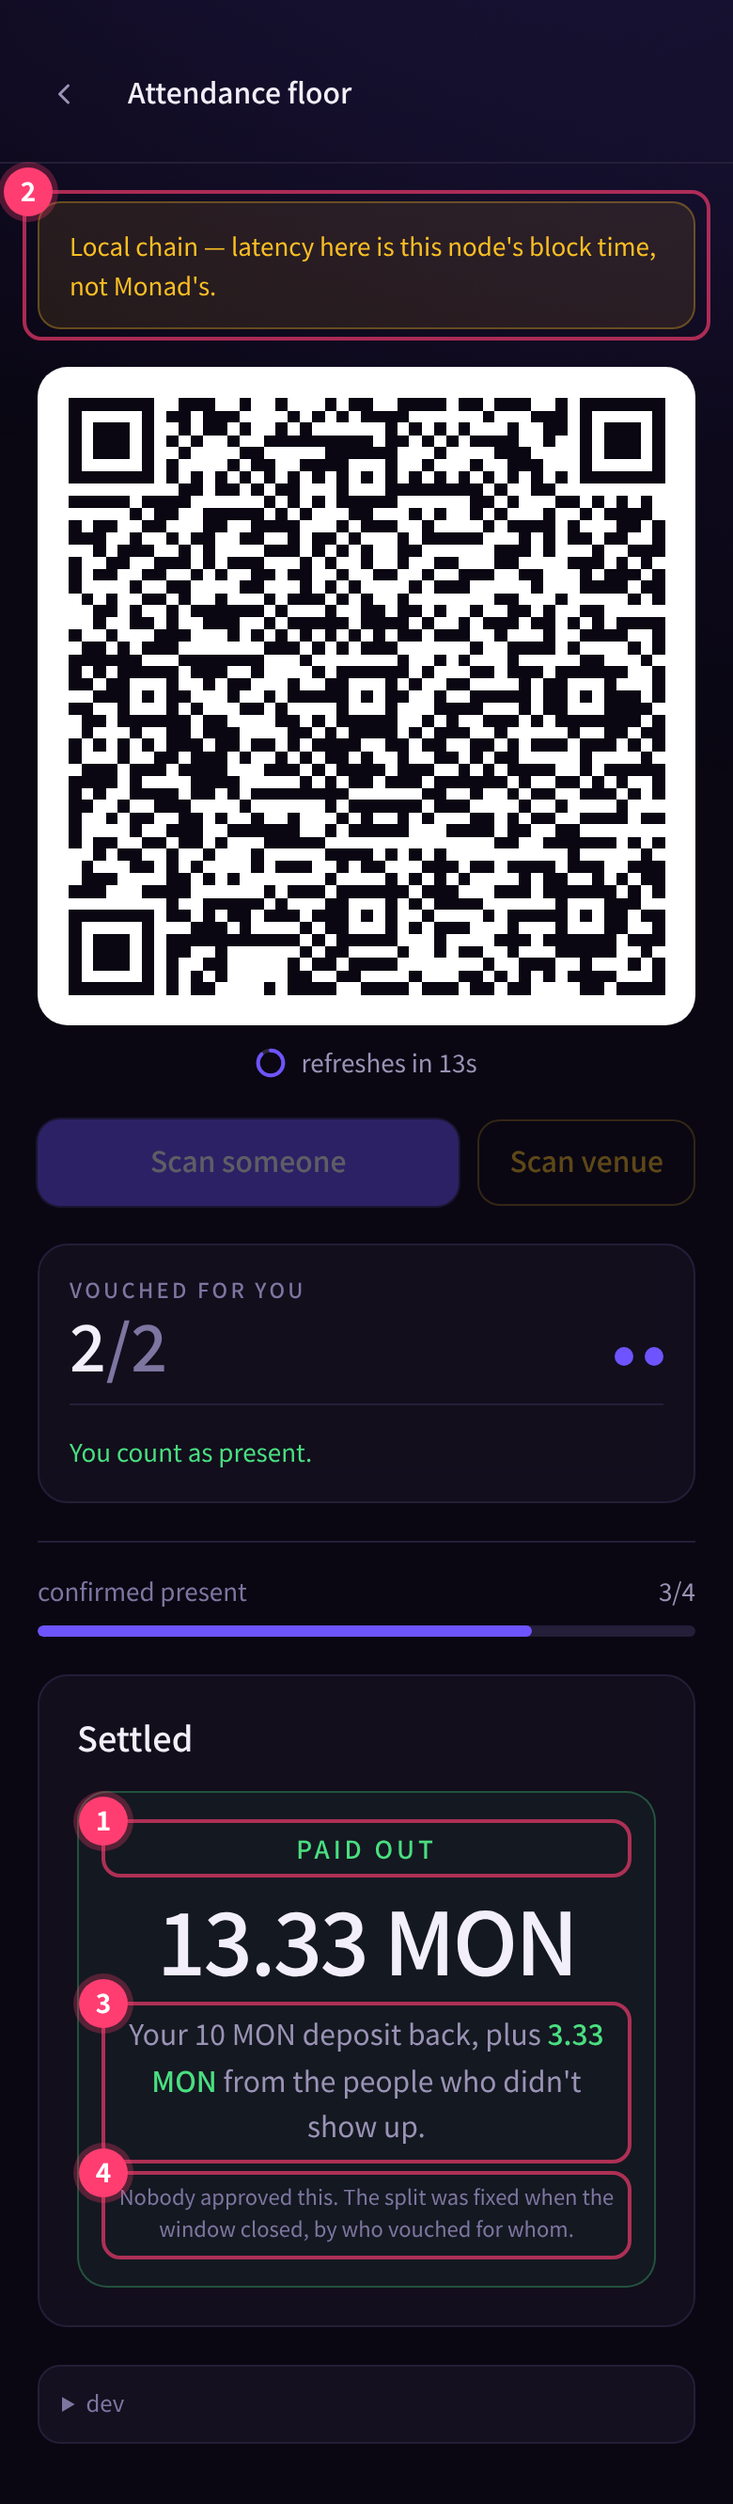
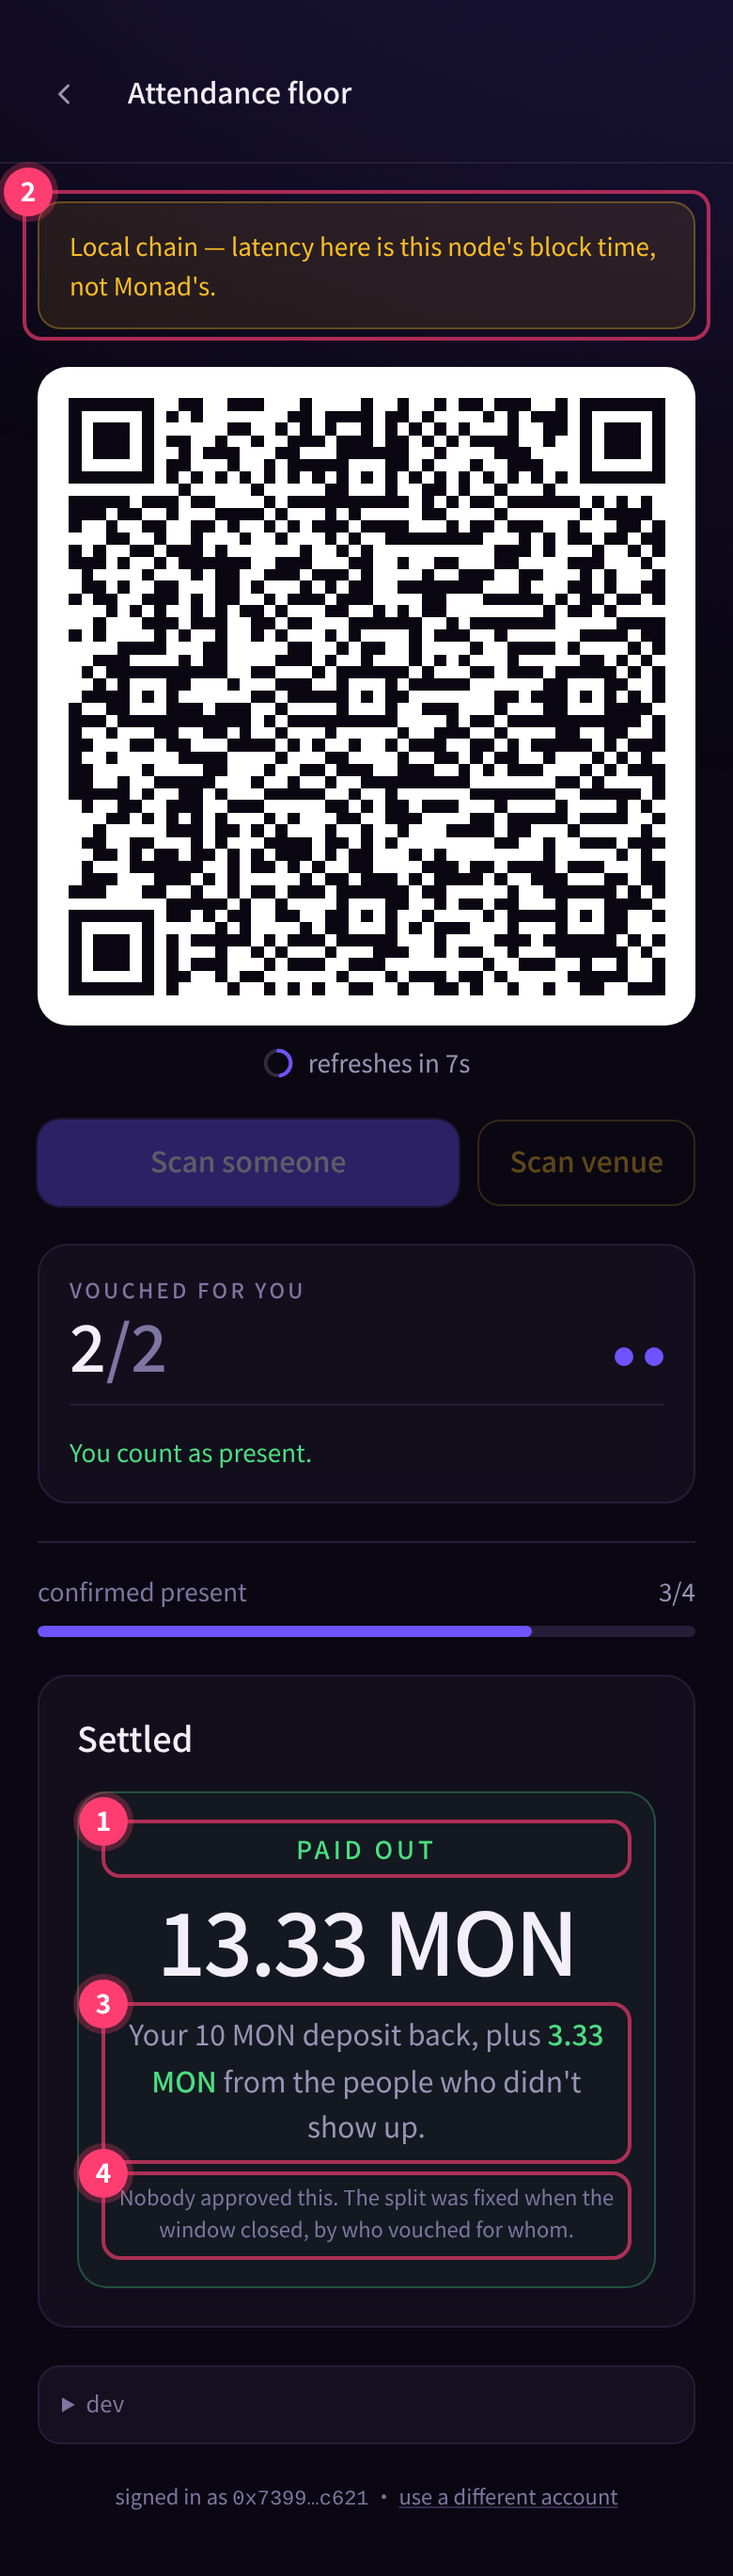
web: design the create form for somebody making an event, not for us testing one
Asked three times what "Deploy the directory" was for. It was a contract
deployment button, in primary styling, above the form — the first thing an
organizer met, about infrastructure they never asked about. That is our problem
leaking into their screen.

It is gone. Creating an event deploys the directory on demand if a title was
typed and none exists, with the progress label saying "Setting up descriptions…"
rather than naming a contract. The button survives only under ?dev=1.

The form is now two labelled sections in the order somebody actually thinks:
what the event is, then the rules. Six numeric inputs as the opening move reads as
a config screen rather than a way to invite people. The rules section is headed
"Fixed once registration opens — including for you", which is the product's claim
stated where it is load-bearing.

The spec's table is renumbered to match, and now records the timeline confusion as
the screen's biggest remaining weakness: registration and the attestation window
are sequential, not parallel, and two number inputs do not say so.

diff --git a/web/app/organizer/page.tsx b/web/app/organizer/page.tsx
@@ -18,12 +18,12 @@ import {
 } from "@/lib/chain";
 import { both, countdown, fiat, shortAddress, shortenError } from "@/lib/format";
 import { phaseOf, useEvent } from "@/lib/useEvent";
-import { checkDirectory, describeGas, directoryAddress, directoryReady } from "@/lib/directory";
+import { checkDirectory, deployDirectory, describeGas, directoryAddress } from "@/lib/directory";
 import { eventDirectoryAbi } from "@/lib/directoryArtifact";
 import DeployDirectory from "@/components/DeployDirectory";
 
 export default function OrganizerPage() {
-  const { signer } = useIdentity();
+  const { signer, devMode } = useIdentity();
   const { ev, refresh } = useEvent(signer?.address ?? null);
   const [tab, setTab] = useState<"dashboard" | "create">("dashboard");
 
@@ -67,9 +67,10 @@ export default function OrganizerPage() {
 
       <IdentityGate>
         {tab === "dashboard" ? <Dashboard /> : <CreateForm onCreated={refresh} />}
-        {/* Below the form, not above it. It is one-time setup for a nicety, and sitting at the top
-            in primary styling made it read as a step you had to complete before anything else. */}
-        <DeployDirectory />
+        {/* Dev only. Creating an event deploys this on demand, so an organizer never meets it —
+            "deploy a contract" is our infrastructure problem, not something to put in front of
+            somebody who wanted to invite people to a reading group. */}
+        {devMode && <DeployDirectory />}
       </IdentityGate>
 
       {tab === "dashboard" && ev && <PayoutControls />}
@@ -270,13 +271,8 @@ function CreateForm({ onCreated }: { onCreated: () => Promise<void> }) {
   const [title, setTitle] = useState("");
   const [blurb, setBlurb] = useState("");
   const [url, setUrl] = useState("");
-  // Whether the directory exists is a chain read, not a build setting, so it
-  // arrives after mount like any other on-chain fact.
-  const [hasDir, setHasDir] = useState(false);
-  useEffect(() => {
-    void checkDirectory().then(setHasDir);
-  }, []);
   const [busy, setBusy] = useState(false);
+  const [busyLabel, setBusyLabel] = useState("Creating…");
   const [notice, setNotice] = useState<string | null>(null);
   const [created, setCreated] = useState<{ id: bigint; beacon: string } | null>(null);
 
@@ -285,6 +281,15 @@ function CreateForm({ onCreated }: { onCreated: () => Promise<void> }) {
     setBusy(true);
     setNotice(null);
     try {
+      // Descriptions live in a second contract. Whether it exists yet is our problem, not the
+      // organizer's — so if it does not, deploy it as part of this action rather than putting a
+      // "deploy a contract" button in front of somebody who wanted to create an event.
+      const wantsWords = !!(title || blurb || url);
+      if (wantsWords && !(await checkDirectory())) {
+        setBusyLabel("Setting up descriptions…");
+        await deployDirectory(signer.address);
+      }
+      setBusyLabel("Creating…");
       // The venue display's key. Generated fresh per event and handed to the device at the door;
       // it signs beacons and nothing else, so it never needs funding.
       const beaconPk = `0x${Array.from(crypto.getRandomValues(new Uint8Array(32)), (b) =>
@@ -327,9 +332,9 @@ function CreateForm({ onCreated }: { onCreated: () => Promise<void> }) {
       // where money goes, so the description lives in EventDirectory — and an event that exists
       // without a description is a listing that reads badly, not a broken event. Failing here must
       // not look like the event failed.
-      if (directoryReady() && (title || blurb || url)) {
+      if (wantsWords) {
         try {
-          setNotice("Saving the description…");
+          setBusyLabel("Saving the description…");
           await signer.write({
             functionName: "describe",
             args: [id, title, blurb, url],
@@ -372,26 +377,16 @@ function CreateForm({ onCreated }: { onCreated: () => Promise<void> }) {
 
   return (
     <div className="space-y-3">
-      <div className="grid grid-cols-2 gap-3 md:grid-cols-3">
-        <Field label="Deposit (MON)" value={deposit} onChange={setDeposit} hint={fiat(parseEther(deposit || "0"))} />
-        <Field label="Capacity" value={capacity} onChange={setCapacity} />
-        <Field label="Runs if at least" value={minQuorum} onChange={setMinQuorum} hint="must exceed vouches" />
-        <Field label="Vouches needed" value={k} onChange={setK} hint="3 is a good default" />
-        <Field label="Registration (mins)" value={registerMins} onChange={setRegisterMins} />
-        <Field label="Window (mins)" value={windowMins} onChange={setWindowMins} />
-      </div>
-
-      <p className="text-xs leading-relaxed text-faint">
-        You send no funds and gain no spending power. Deposits go to the contract; the split is
-        decided by who vouches for whom.
-      </p>
-
-      {notice && <Notice tone="bad">{notice}</Notice>}
-
-      {hasDir ? (
-        <div className="space-y-2.5 rounded-xl border border-line bg-panel p-3.5">
-          <Eyebrow>what is this event?</Eyebrow>
-          <Field label="Title" value={title} onChange={setTitle} hint="Shown in the listing" />
+      <div className="space-y-4">
+        {/* Description first. Somebody creating an event thinks about what it is before they think
+            about deposit mechanics, and a form that opens with six numbers reads as a config screen
+            rather than a way to invite people. */}
+        <section className="space-y-2.5 rounded-2xl border border-line bg-panel p-4 md:p-5">
+          <div>
+            <Eyebrow>1 · about the event</Eyebrow>
+            <p className="mt-1 text-[13px] text-dim">What people see in the listing.</p>
+          </div>
+          <Field label="Title" value={title} onChange={setTitle} hint="e.g. Thursday reading group" />
           <label className="block">
             <span className="mb-1.5 block text-[11px] uppercase tracking-wide text-faint">
               Description
@@ -406,21 +401,35 @@ function CreateForm({ onCreated }: { onCreated: () => Promise<void> }) {
             />
           </label>
           <Field label="Link (optional)" value={url} onChange={setUrl} hint="A fuller page, if you have one" />
-          <p className="text-[11px] leading-relaxed text-faint">
-            Saved to a second contract that holds no money — it cannot affect who gets paid. Costs
-            about {fiat((describeGas(title, blurb, url) * 102n) / 1_000_000_000n)} in gas, charged
-            on length.
-          </p>
-        </div>
-      ) : (
-        <Notice>
-          Deploy the directory above to give this event a title and description.
-        </Notice>
-      )}
+        </section>
 
-      <Button onClick={() => void submit()} disabled={busy} className="w-full">
-        {busy ? "Creating…" : "Create event"}
-      </Button>
+        <section className="space-y-3 rounded-2xl border border-line bg-panel p-4 md:p-5">
+          <div>
+            <Eyebrow>2 · the rules</Eyebrow>
+            <p className="mt-1 text-[13px] text-dim">
+              Fixed once registration opens — including for you.
+            </p>
+          </div>
+          <div className="grid grid-cols-2 gap-3 md:grid-cols-3">
+            <Field label="Deposit (MON)" value={deposit} onChange={setDeposit} hint={fiat(parseEther(deposit || "0"))} />
+            <Field label="Capacity" value={capacity} onChange={setCapacity} />
+            <Field label="Runs if at least" value={minQuorum} onChange={setMinQuorum} hint="must exceed vouches" />
+            <Field label="Vouches needed" value={k} onChange={setK} hint="3 is a good default" />
+            <Field label="Registration (mins)" value={registerMins} onChange={setRegisterMins} />
+            <Field label="Window (mins)" value={windowMins} onChange={setWindowMins} hint="starts when registration closes" />
+          </div>
+          <p className="text-xs leading-relaxed text-faint">
+            You send no funds and gain no spending power. Deposits go to the contract; the split is
+            decided by who vouches for whom.
+          </p>
+        </section>
+
+        {notice && <Notice tone="bad">{notice}</Notice>}
+
+        <Button onClick={() => void submit()} disabled={busy} className="w-full">
+          {busy ? busyLabel : "Create event"}
+        </Button>
+      </div>
     </div>
   );
 }

diff --git a/docs/产品说明_给设计师.md b/docs/产品说明_给设计师.md
@@ -125,6 +125,8 @@ balance 0.0000 MON  ·  you never see a gas prompt
 
 按钮下面那行是**余额和承诺**。「you never see a gas prompt」是 passkey 路径的卖点——派生出的密钥静默签名，不弹窗。
 
+登录状态下方还有一行：`signed in as 0x7399…c621 · use a different account`。**密钥会被记住**（钱包/邮箱路径一天，passkey 路径仅当前标签页），所以刷新页面不会掉登录。那个链接是唯一的退出口——同一台设备上换账号时需要它。
+
 **余额不足时**（见第 9 屏）按钮会禁用，上方出现一块橙色提示，说明还差多少、为什么押金不能由平台代付，并给出获取途径。
 
 ---
@@ -158,22 +160,28 @@ balance 0.0000 MON  ·  you never see a gas prompt
 ![手机](screens/05-organizer-new-mobile.png)
 ![电脑](screens/05-organizer-new-desktop.png)
 
-**六个数字 + 三个文字字段。**
+**两个模块，顺序是刻意的**：先说这是什么活动，再说规则。办活动的人**先想的是「这是个什么聚会」，不是「押金设多少」**——一上来就是六个数字输入框，读起来像配置页而不是邀请人的工具。
 
 | # | 字段 | 含义 | 注意 |
 |---|---|---|---|
-| ① | `DEPOSIT (MON)` | 每人押金 | |
+| ① | **模块一：about the event** | 「What people see in the listing」 | |
+| ② | `Title` | 活动名 | 不填就显示 `Event #5` |
+| ③ | `Description` | 简介 | 最多 600 字符 |
+| — | `Link (optional)` | 详情页链接 | |
+| ④ | **模块二：the rules** | 「**Fixed once registration opens — including for you**」 | 这句是产品主张 |
+| ⑤ | `DEPOSIT (MON)` | 每人押金 | |
 | — | `CAPACITY` | 人数上限 | |
-| ② | `RUNS IF AT LEAST` | 最低开办人数 | ⚠ **必须大于 ③**，否则合约拒绝 |
-| ③ | `VOUCHES NEEDED` | 需要几个人作证才算到场 | 3 是常用值 |
-| ④ | `REGISTRATION (MINS)` | 报名窗口多长 | |
-| ⑤ | `WINDOW (MINS)` | 见证窗口多长，**在报名截止后才开始** | |
-| ⑥ | 描述区（标题/简介/链接） | 存在第二个合约里 | 简介最多 600 字符 |
-| ⑦ | `Create event` | | |
+| ⑥ | `RUNS IF AT LEAST` | 最低开办人数 | ⚠ **必须大于 ⑦**，否则合约拒绝 |
+| ⑦ | `VOUCHES NEEDED` | 需要几人作证才算到场 | 3 是常用值 |
+| — | `REGISTRATION (MINS)` | 报名窗口多长 | |
+| ⑧ | `WINDOW (MINS)` | 见证窗口，**在报名截止后才开始** | |
+| ⑨ | `Create event` | | |
 
-**时序容易误解**：报名窗口结束 → 见证窗口才开始。两者不重叠。界面上应该把这个时间轴画出来，现在只有两个数字输入框，用户很容易以为它们是并行的。
+**时序容易误解**：报名窗口结束 → 见证窗口才开始，**两者不重叠**。现在只有两个数字框，用户很容易以为是并行的。**建议设计一个时间轴示意**，这是这一屏最值得改进的地方。
 
-**建完之后**会显示一次性的**场地信标密钥**，要复制到会场那台设备上。这一屏也要设计——它是个「只显示一次、必须复制走」的关键时刻。
+**一个刻意的隐藏**：标题存在第二个合约里，如果那个合约还没部署，**提交时会自动带上部署**（按钮文字变成「Setting up descriptions…」）。用户永远不需要知道有这回事——「部署一个合约」是我们的基础设施问题，不该出现在想办读书会的人面前。
+
+**建完之后**会显示一次性的**场地信标密钥**，要复制到会场设备上。这一屏也要设计——它是个「只显示一次、必须复制走」的关键时刻。
 
 ---
 
